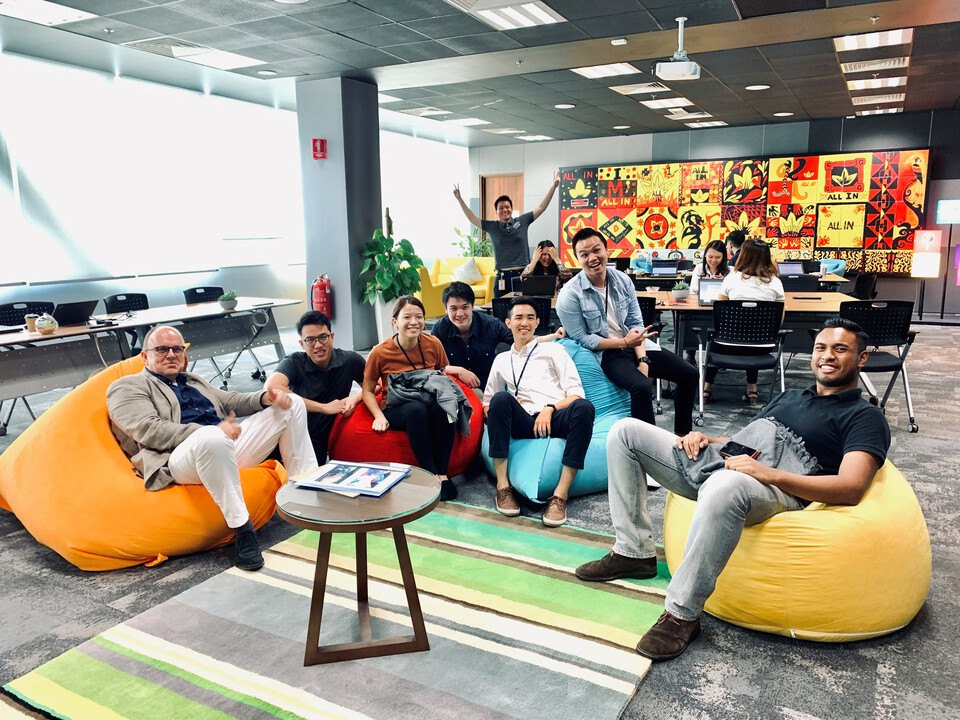
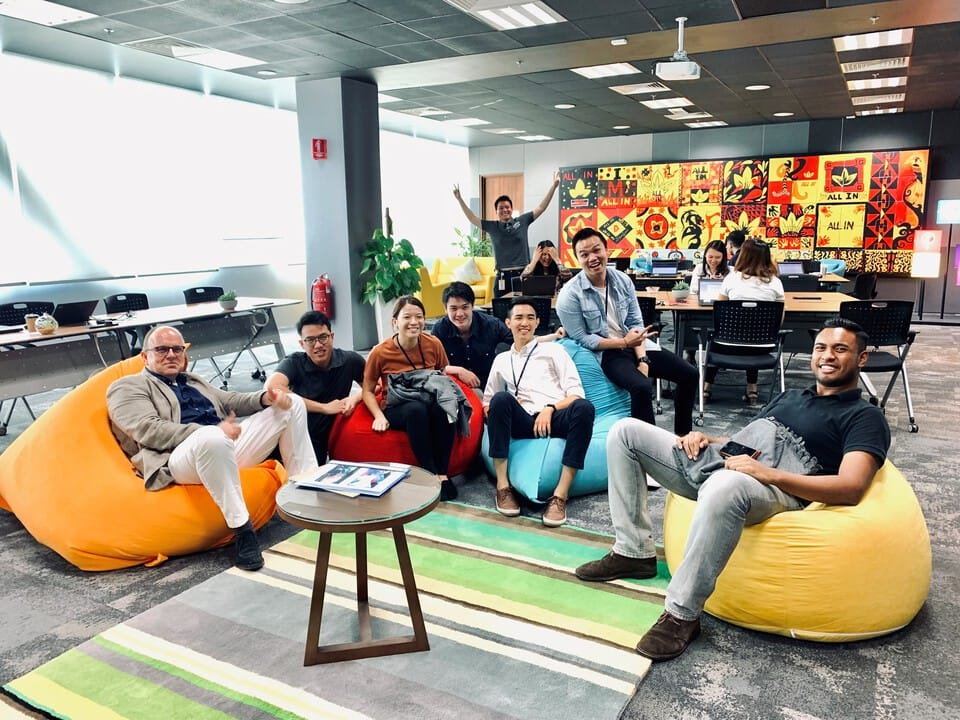
Optimize gallery images and fix carousel loading
- Created optimize-gallery-images.js script to compress gallery images
- Optimized 10 gallery images: 3.5MB savings (68.2% reduction)
- Fixed ProjectGallery carousel to preload adjacent slides (prev, current, next)
- Added watcher in LazyImage to react to lazy prop changes
- Gallery images now load smoothly in first carousel cycle
- Added optimize-gallery-images script to package.json

Changed region(s): [[0.625, 0.2444, 0.9375, 0.3667], [0.8125, 0.2139, 0.8438, 0.2444]]

diff --git a/scripts/optimize-gallery-images.js b/scripts/optimize-gallery-images.js
@@ -1,0 +1,204 @@
+/**
+ * Optimize Gallery Images
+ * Compresses and resizes project gallery images (he2-7, aa2-7, bat2-7, etc.) to reduce file sizes
+ * Uses Sharp for image optimization
+ */
+
+const fs = require('fs')
+const path = require('path')
+const sharp = require('sharp')
+
+const IMG_DIR = path.resolve(__dirname, '../public/assets/img')
+const MAX_FILE_SIZE_KB = 200 // Target max file size in KB for gallery images
+
+// Gallery image settings - carousel images should be optimized for web display
+const GALLERY_CONFIG = {
+  maxWidth: 1920,  // Max width (for large displays)
+  maxHeight: 1080, // Max height (16:9 ratio)
+  quality: 80,     // Good balance for web (80 is optimal)
+  fit: 'inside'    // Maintain aspect ratio, fit inside bounds
+}
+
+/**
+ * Check if file is a gallery image (he2-9, aa2-9, bat2-9, etc.)
+ */
+function isGalleryImage(filename) {
+  const pattern = /^(he|aa|bat|sf|vp|gd|gpc|g5|in)[2-9]\.(jpg|jpeg|png)$/i
+  return pattern.test(filename)
+}
+
+/**
+ * Optimize a gallery image
+ */
+async function optimizeGalleryImage(filePath) {
+  const filename = path.basename(filePath)
+  
+  try {
+    const originalStats = fs.statSync(filePath)
+    const originalSizeKB = originalStats.size / 1024
+    
+    // Skip if already small enough
+    if (originalSizeKB <= MAX_FILE_SIZE_KB) {
+      console.log(`✅ ${filename} already optimized (${originalSizeKB.toFixed(2)} KB)`)
+      return { skipped: true, filename, size: originalSizeKB }
+    }
+
+    console.log(`🔄 Optimizing ${filename} (${originalSizeKB.toFixed(2)} KB)...`)
+    
+    const tempPath = filePath + '.tmp'
+    
+    // Get image metadata
+    const metadata = await sharp(filePath).metadata()
+    
+    // Calculate dimensions (maintain aspect ratio)
+    let width = metadata.width
+    let height = metadata.height
+    
+    // Resize if larger than max dimensions
+    if (metadata.width > GALLERY_CONFIG.maxWidth || metadata.height > GALLERY_CONFIG.maxHeight) {
+      const aspectRatio = metadata.width / metadata.height
+      
+      if (metadata.width > metadata.height) {
+        // Landscape or square
+        width = GALLERY_CONFIG.maxWidth
+        height = Math.round(GALLERY_CONFIG.maxWidth / aspectRatio)
+        if (height > GALLERY_CONFIG.maxHeight) {
+          height = GALLERY_CONFIG.maxHeight
+          width = Math.round(GALLERY_CONFIG.maxHeight * aspectRatio)
+        }
+      } else {
+        // Portrait
+        height = GALLERY_CONFIG.maxHeight
+        width = Math.round(GALLERY_CONFIG.maxHeight * aspectRatio)
+        if (width > GALLERY_CONFIG.maxWidth) {
+          width = GALLERY_CONFIG.maxWidth
+          height = Math.round(GALLERY_CONFIG.maxWidth / aspectRatio)
+        }
+      }
+    }
+
+    // Optimize image
+    await sharp(filePath)
+      .resize(width, height, {
+        fit: GALLERY_CONFIG.fit,
+        withoutEnlargement: true
+      })
+      .jpeg({
+        quality: GALLERY_CONFIG.quality,
+        mozjpeg: true, // Better compression
+        progressive: true // Progressive JPEG for better perceived performance
+      })
+      .toFile(tempPath)
+
+    // Check new file size
+    const newStats = fs.statSync(tempPath)
+    const newSizeKB = newStats.size / 1024
+    const savings = originalSizeKB - newSizeKB
+    const savingsPercent = ((savings / originalSizeKB) * 100).toFixed(1)
+
+    // Replace original if optimization was successful
+    if (newSizeKB < originalSizeKB) {
+      fs.renameSync(tempPath, filePath)
+      console.log(`✅ ${filename}: ${originalSizeKB.toFixed(2)} KB → ${newSizeKB.toFixed(2)} KB (saved ${savings.toFixed(2)} KB, ${savingsPercent}%)`)
+      return { 
+        optimized: true, 
+        filename, 
+        originalSize: originalSizeKB, 
+        newSize: newSizeKB, 
+        savings,
+        savingsPercent 
+      }
+    } else {
+      // New file is larger, keep original
+      fs.unlinkSync(tempPath)
+      console.log(`⚠  ${filename}: Optimization increased size, keeping original`)
+      return { skipped: true, filename, size: originalSizeKB }
+    }
+
+  } catch (error) {
+    console.error(`❌ Error optimizing ${filename}:`, error.message)
+    return { error: true, filename, message: error.message }
+  }
+}
+
+/**
+ * Main function
+ */
+async function main() {
+  console.log('🚀 Starting gallery image optimization...\n')
+
+  if (!fs.existsSync(IMG_DIR)) {
+    console.error(`❌ Directory not found: ${IMG_DIR}`)
+    process.exit(1)
+  }
+
+  // Find all gallery images
+  const files = fs.readdirSync(IMG_DIR)
+    .filter(file => isGalleryImage(file))
+    .map(file => path.join(IMG_DIR, file))
+
+  if (files.length === 0) {
+    console.log('ℹ  No gallery images found')
+    return
+  }
+
+  console.log(`📁 Found ${files.length} gallery images to process\n`)
+
+  const results = {
+    optimized: [],
+    skipped: [],
+    errors: []
+  }
+
+  // Process all gallery images
+  for (const filePath of files) {
+    const result = await optimizeGalleryImage(filePath)
+    
+    if (result.error) {
+      results.errors.push(result)
+    } else if (result.optimized) {
+      results.optimized.push(result)
+    } else {
+      results.skipped.push(result)
+    }
+  }
+
+  // Summary
+  console.log('\n' + '='.repeat(60))
+  console.log('📊 Gallery Image Optimization Summary')
+  console.log('='.repeat(60))
+  console.log(`✅ Optimized: ${results.optimized.length}`)
+  console.log(`⏭  Skipped: ${results.skipped.length}`)
+  console.log(`❌ Errors: ${results.errors.length}`)
+  
+  if (results.optimized.length > 0) {
+    const totalOriginal = results.optimized.reduce((sum, r) => sum + r.originalSize, 0)
+    const totalNew = results.optimized.reduce((sum, r) => sum + r.newSize, 0)
+    const totalSavings = totalOriginal - totalNew
+    const totalSavingsPercent = ((totalSavings / totalOriginal) * 100).toFixed(1)
+    
+    console.log(`\n💾 Total Savings: ${totalSavings.toFixed(2)} KB (${totalSavingsPercent}%)`)
+    console.log(`   Before: ${totalOriginal.toFixed(2)} KB`)
+    console.log(`   After:  ${totalNew.toFixed(2)} KB`)
+  }
+
+  if (results.errors.length > 0) {
+    console.log('\n❌ Errors:')
+    results.errors.forEach(err => {
+      console.log(`   - ${err.filename}: ${err.message}`)
+    })
+    process.exit(1)
+  }
+
+  console.log('\n✅ Gallery image optimization complete!')
+}
+
+// Run if called directly
+if (require.main === module) {
+  main().catch(error => {
+    console.error('Fatal error:', error)
+    process.exit(1)
+  })
+}
+
+module.exports = { optimizeGalleryImage, main }

diff --git a/src/components/common/LazyImage.vue b/src/components/common/LazyImage.vue
@@ -1,13 +1,13 @@
 <template>
   <div ref="imageContainer" class="lazy-image-container" :class="containerClass">
-    <!-- Placeholder while loading -->
-    <div v-if="!isLoaded && !hasError" class="lazy-image-placeholder" :style="placeholderStyle">
-      <i class="bi bi-image" style="opacity: 0.2; font-size: 2rem;"></i>
+    <!-- Placeholder while loading - always rendered to maintain layout space -->
+    <div v-show="!isLoaded && !hasError" class="lazy-image-placeholder" :style="placeholderStyle">
+      <i class="bi bi-image" style="opacity: 0.1; font-size: 0.75rem;"></i>
     </div>
     
-    <!-- Actual image -->
+    <!-- Actual image - load when shouldLoad is true -->
     <img 
-      v-if="isLoaded || !lazy"
+      v-if="shouldLoad"
       :src="src" 
       :alt="alt"
       :class="imageClass"
@@ -54,7 +54,7 @@ export default {
     },
     rootMargin: {
       type: String,
-      default: '50px'
+      default: '200px' // Increased default to start loading earlier, before scroll reaches element
     },
     containerClass: {
       type: String,
@@ -82,14 +82,31 @@ export default {
       isLoaded: false,
       hasError: false,
       observer: null,
-      imageElement: null
+      imageElement: null,
+      shouldLoad: false // Separate flag to control when to actually load the image
     }
   },
   expose: ['imageElement'],
+  watch: {
+    // Watch lazy prop changes - if it becomes false, load immediately
+    lazy(newValue, oldValue) {
+      // If lazy was true and now is false, start loading immediately
+      if (oldValue === true && newValue === false && !this.shouldLoad) {
+        // Stop observing since we're loading eagerly now
+        if (this.observer && this.$refs.imageContainer) {
+          this.observer.unobserve(this.$refs.imageContainer)
+          this.observer = null
+        }
+        // Start loading
+        this.shouldLoad = true
+      }
+    }
+  },
   mounted() {
     // If lazy is disabled, load immediately
     if (!this.lazy) {
       this.isLoaded = true
+      this.shouldLoad = true
       // Get image element reference immediately for eager loading
       this.$nextTick(() => {
         if (this.$refs.imageElementRef) {
@@ -99,7 +116,7 @@ export default {
       return
     }
     
-    // Setup lazy loading with IntersectionObserver
+    // For lazy loading, show placeholder immediately but start observing
     this.setupLazyLoading()
   },
   beforeUnmount() {
@@ -117,18 +134,19 @@ export default {
         // Check if IntersectionObserver is supported
         if (typeof IntersectionObserver === 'undefined') {
           // Fallback: load immediately if IntersectionObserver not supported
+          this.shouldLoad = true
           this.isLoaded = true
           return
         }
         
-        // Create IntersectionObserver
+        // Create IntersectionObserver with larger rootMargin to start loading earlier
         this.observer = new IntersectionObserver(
           (entries) => {
             entries.forEach(entry => {
               if (entry.isIntersecting) {
-                // Image is visible, load it
-                this.isLoaded = true
-                // Stop observing once loaded
+                // Image is visible or near viewport, start loading
+                this.shouldLoad = true
+                // Stop observing once we've decided to load
                 if (this.observer) {
                   this.observer.unobserve(entry.target)
                 }
@@ -137,7 +155,7 @@ export default {
           },
           {
             threshold: this.threshold,
-            rootMargin: this.rootMargin
+            rootMargin: this.rootMargin || '100px' // Default to larger margin for earlier loading
           }
         )
         
@@ -165,25 +183,20 @@ export default {
 <style scoped>
 .lazy-image-container {
   position: relative;
-  width: 100%;
-  height: 100%;
-  overflow: hidden;
+  display: inline-block; /* Prevent collapsing for inline contexts */
+  vertical-align: middle; /* Align with text baseline */
+  flex-shrink: 0; /* When used in flex containers, maintain size */
 }
 
 .lazy-image-placeholder,
 .lazy-image-error {
-  display: flex;
-  flex-direction: column;
-  align-items: center;
-  justify-content: center;
-  width: 100%;
-  height: 100%;
-  min-height: 200px;
-  background: linear-gradient(135deg, 
-    rgba(139, 92, 246, 0.05) 0%, 
-    rgba(236, 72, 153, 0.05) 100%
-  );
-  border-radius: 8px;
+  display: inline-block;
+  width: 1em; /* Use em-based sizing to match text/icon context */
+  height: 1em;
+  line-height: 1;
+  text-align: center;
+  vertical-align: middle;
+  opacity: 0.3;
 }
 
 .lazy-image-container img {

diff --git a/src/components/projects/ProjectGallery.vue b/src/components/projects/ProjectGallery.vue
@@ -27,8 +27,8 @@
               <LazyImage 
                 :src="image" 
                 :alt="`${projectName} - Enterprise Software Project - Screenshot ${index + 1} - Remote Consultant`"
-                :lazy="index !== currentIndex"
-                :priority="index === currentIndex ? 'high' : 'low'"
+                :lazy="!shouldEagerLoad(index)"
+                :priority="getImagePriority(index)"
                 container-class="carousel-slide-image"
                 image-class="carousel-slide-img"
               />
@@ -98,7 +98,35 @@ export default {
   beforeUnmount() {
     this.stopAutoplay()
   },
+  watch: {
+    // When currentIndex changes, trigger loading of adjacent slides
+    currentIndex() {
+      // Force adjacent slides to load by updating the lazy state
+      this.$nextTick(() => {
+        // LazyImage will check shouldLoad when mounted, but we need to trigger
+        // loading for slides that are now adjacent
+        const prevIndex = this.currentIndex === 0 ? this.images.length - 1 : this.currentIndex - 1
+        const nextIndex = this.currentIndex === this.images.length - 1 ? 0 : this.currentIndex + 1
+        
+        // The LazyImage component will handle loading based on lazy prop changes
+        // Force update to ensure reactivity
+        this.$forceUpdate()
+      })
+    }
+  },
   methods: {
+    shouldEagerLoad(index) {
+      const prevIndex = this.currentIndex === 0 ? this.images.length - 1 : this.currentIndex - 1
+      const nextIndex = this.currentIndex === this.images.length - 1 ? 0 : this.currentIndex + 1
+      return index === this.currentIndex || index === prevIndex || index === nextIndex
+    },
+    getImagePriority(index) {
+      if (index === this.currentIndex) return 'high'
+      const prevIndex = this.currentIndex === 0 ? this.images.length - 1 : this.currentIndex - 1
+      const nextIndex = this.currentIndex === this.images.length - 1 ? 0 : this.currentIndex + 1
+      if (index === prevIndex || index === nextIndex) return 'auto'
+      return 'low'
+    },
     goToNext() {
       if (this.isTransitioning) return
       this.isTransitioning = true
